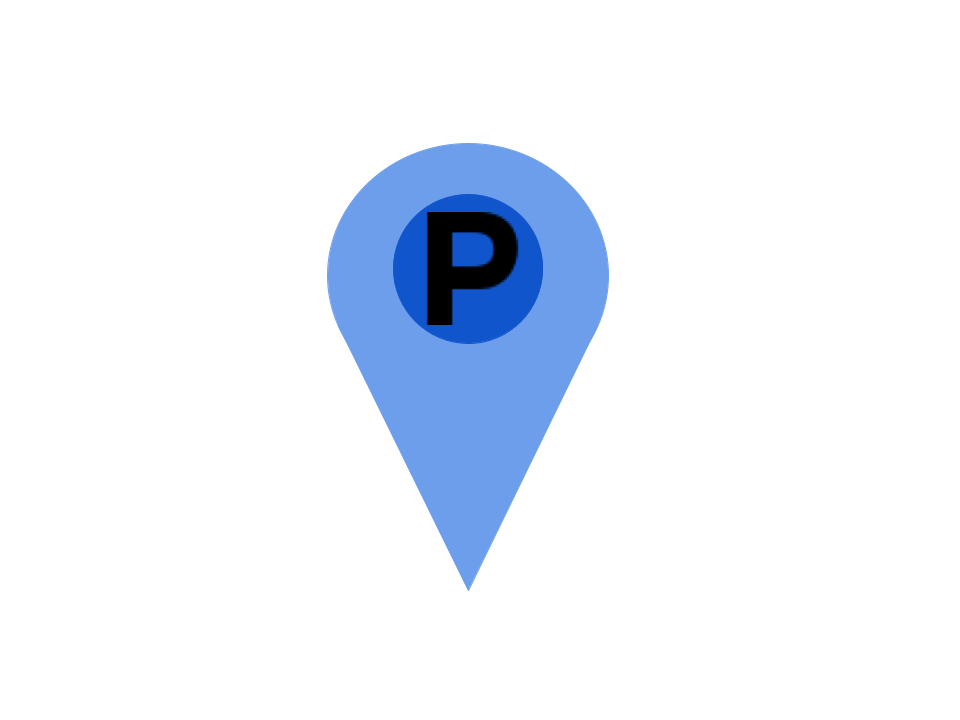
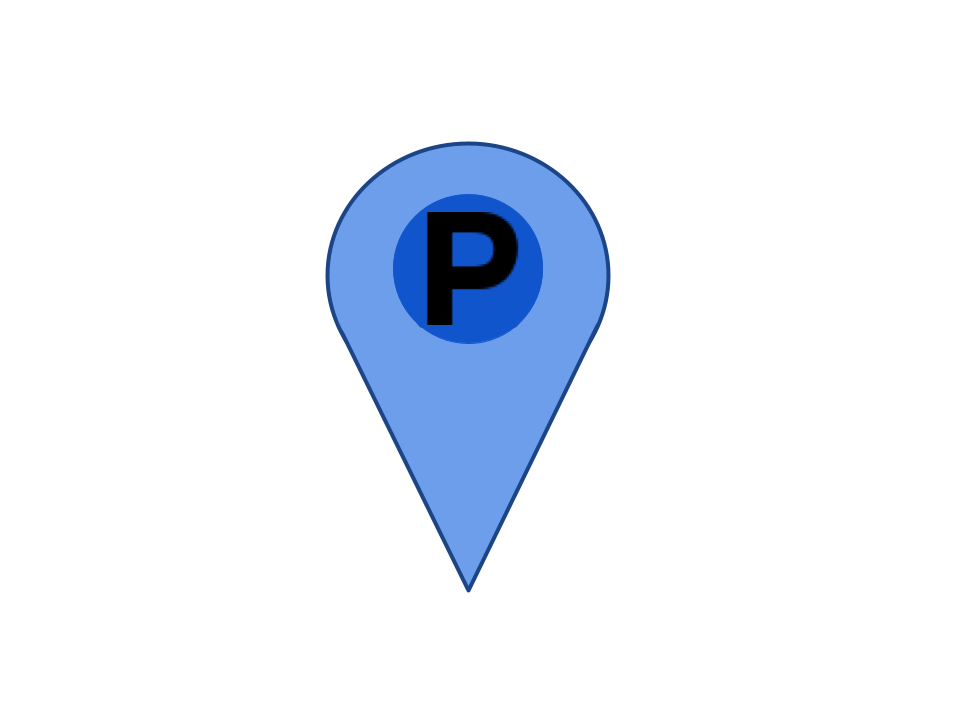
pins

diff --git a/script.js b/script.js
@@ -58,9 +58,9 @@ function renderBathroom(fields) {
 let benchIcon = L.icon({
     iconUrl: 'icons/BenchPin.png',
 
-    iconSize:     [110, 90], // size of the icon
-    iconAnchor:   [22, 94], // point of the icon which will correspond to marker's location
-    popupAnchor:  [-3, -76] // point from which the popup should open relative to the iconAnchor
+    iconSize:     [110, 90], 
+    iconAnchor:   [22, 94], 
+    popupAnchor:  [-3, -76] 
 });
 
 let bathroomIcon = L.icon({
@@ -71,6 +71,14 @@ let bathroomIcon = L.icon({
     popupAnchor:  [-3, -76] // point from which the popup should open relative to the iconAnchor
 });
 
+let parkingIcon = L.icon({
+    iconUrl: 'icons/ParkingPin.png',
+
+    iconSize:     [110, 90], 
+    iconAnchor:   [22, 94], 
+    popupAnchor:  [-3, -76] 
+});
+
 function renderBench(fields) {
     const googleMapsUrl = getMapsLink(fields);
     
@@ -79,6 +87,7 @@ function renderBench(fields) {
         <strong>Backrest:</strong> ${fields.tags.backrest ?? "Maybe"}
     </div>
     `;
+    
 }
 
 function renderParking(fields) {
@@ -184,7 +193,7 @@ map.on('moveend', async () => {
         console.log(sorted[i])
         const b = sorted[i];
         let latlng = L.latLng(b.latitude, b.longitude);
-        L.marker(latlng).bindPopup(renderParking(b)).addTo(markerGroup);
+        L.marker(latlng, {icon: parkingIcon}). bindPopup(renderParking(b)).addTo(markerGroup);
     }
 });
 
